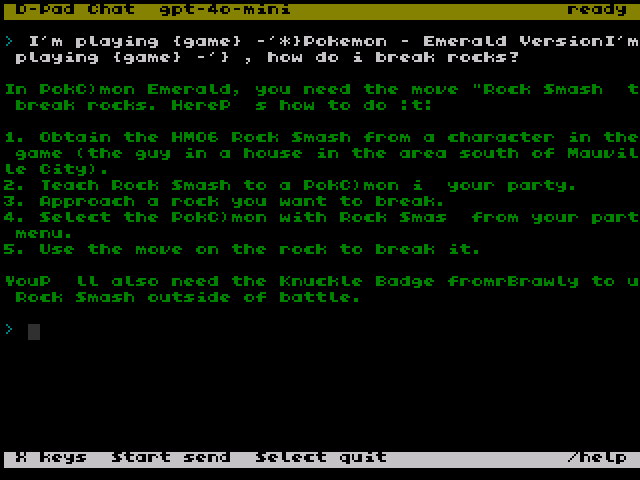
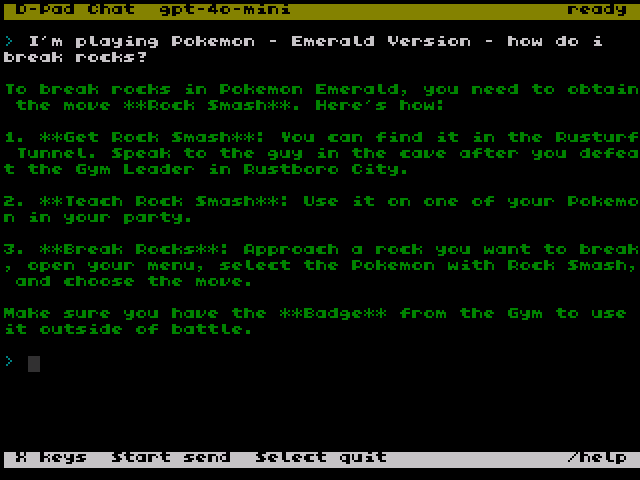
docs: the game-aware screenshots, retaken and live
Retaken against v0.13.2, and they confirm both fixes on hardware rather
than only in the suite.

The prompt now reads "I'm playing Pokemon - Emerald Version -" where it
read "I'm playing {game} -'*}Pokemon - Emerald VersionI'm playing
{game} -'}" before, so Onion's busybox is satisfied by holding the
placeholder in a variable.

The reply is the better evidence. It contains "Pokemon" and "Here's
how:" - an e-acute and a curly apostrophe, both from a live model rather
than from the fixture - and both come through clean where they used to
read "Pok(C)mon" and "HereP s how". That is the ASCII fold working on
real output, which is the one thing the mock could not establish.

The section was written when the captures were held back and is now
uncommented, with the images in place and the index updated. Nothing in
SCREENSHOTS.md is commented out any more; the only image still expected
is the hero photograph.

diff --git a/SCREENSHOTS.md b/SCREENSHOTS.md
@@ -7,6 +7,7 @@ same under any theme.
 
 - [Getting in](#getting-in)
 - [A conversation](#a-conversation)
+- [Knows what you were playing](#knows-what-you-were-playing)
 - [Coming back](#coming-back)
 - [Commands](#commands)
 - [Updating](#updating)
@@ -52,15 +53,13 @@ than all at once at the end. Press **X** to put the keyboard away and read.
 
 <img src="docs/img/question_answered.png" alt="A streamed reply on screen" width="640">
 
-<!-- KNOWS WHAT YOU WERE PLAYING — the three captures for this feature
-     (chat_prev_game_prefilled*.png) were taken against v0.13.0, which had a bug
-     that left the prompt reading `I'm playing {game} -'*}Pokemon...` instead of
-     substituting the name. Fixed since. Retake them and uncomment this.
+---
 
 ## Knows what you were playing
 
-Press **Menu** out of a game, open the app, and the prompt is already holding the game you
-were in, greyed out. **Right** takes it, any other key takes it away.
+Press **Menu** out of a game and open the app. The prompt is already holding the game you
+were in, greyed out, and **Right** takes it — one press instead of the two hundred that
+typing it would cost. Any other key takes it away.
 
 <img src="docs/img/chat_prev_game_prefilled.png" alt="The prompt pre-filled with the game being played" width="640">
 
@@ -68,9 +67,9 @@ Carry on typing the part that is actually your question.
 
 <img src="docs/img/chat_prev_game_prefilled_question.png" alt="The pre-filled opening with a question typed after it" width="640">
 
-<img src="docs/img/chat_prev_game_prefilled_answered.png" alt="The answer to a question about the game" width="640">
+Then **Menu** again puts you back in the game, where you left it.
 
--->
+<img src="docs/img/chat_prev_game_prefilled_answered.png" alt="The answer to a question about the game" width="640">
 
 ---
 

diff --git a/docs/img/README.md b/docs/img/README.md
@@ -12,6 +12,9 @@ Images used by [SCREENSHOTS.md](../../SCREENSHOTS.md) and [README.md](../../READ
 | `question_thinking.png` | the waiting indicator, counting seconds |
 | `question_answered.png` | a streamed reply, keyboard hidden |
 | `chat_resumed.png` | a conversation resumed after reopening |
+| `chat_prev_game_prefilled.png` | the prompt pre-filled with the game just played |
+| `chat_prev_game_prefilled_question.png` | that opening, with a question typed after it |
+| `chat_prev_game_prefilled_answered.png` | the answer to a question about the game |
 | `help.png` | `/help` |
 | `about.png` | `/about` |
 | `config.png` | `/config` |
@@ -22,7 +25,6 @@ Not yet in use:
 
 | File | Why |
 | --- | --- |
-| `chat_prev_game_prefilled*.png` | taken against v0.13.0, which left `{game}` unsubstituted in the prompt. Fixed since; retake and uncomment the section in SCREENSHOTS.md |
 | `hero.jpg` | not taken yet — the device in hand, running a finished conversation |
 
 Framebuffer captures where the point is the text, photographs where the point is the
